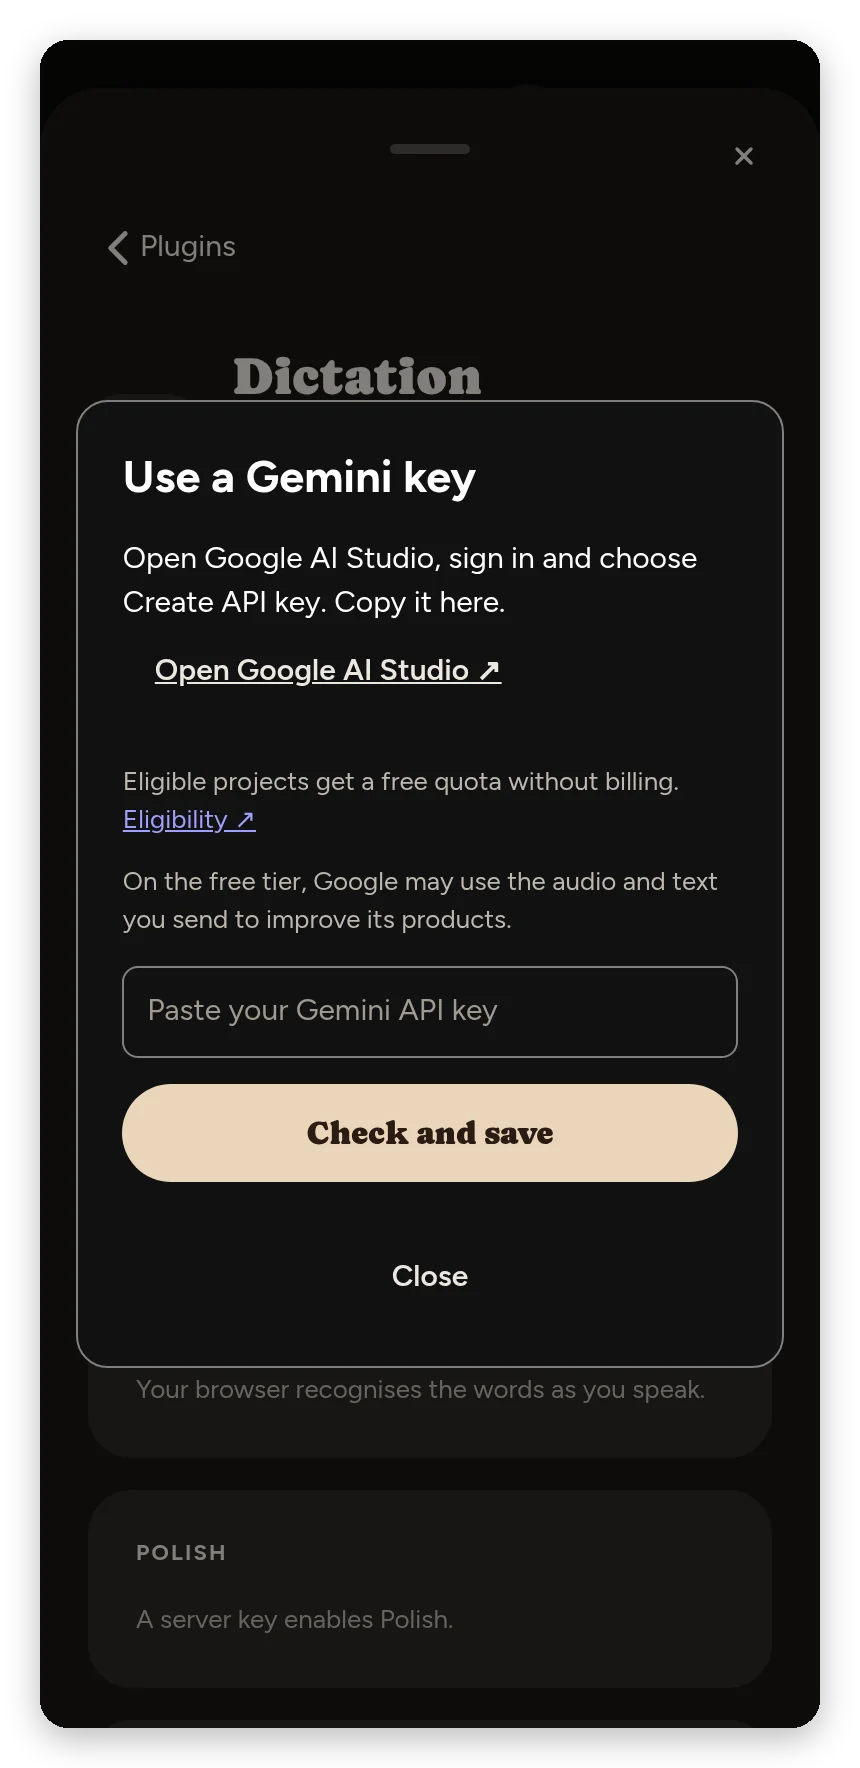
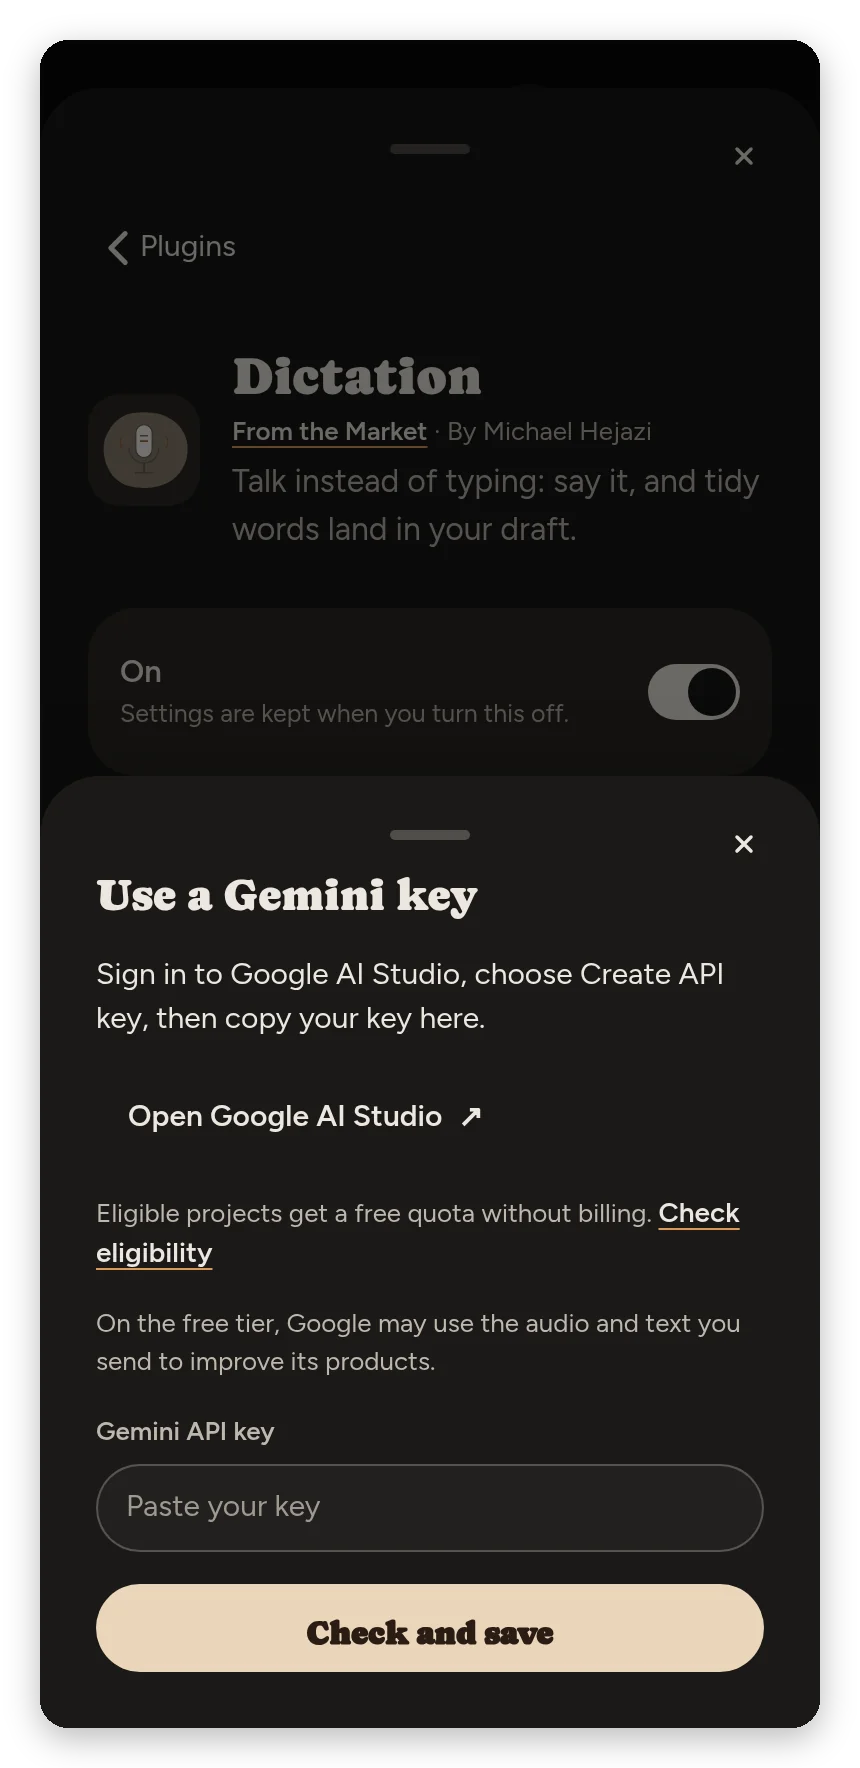
Use the shared key guide on browser fallback

diff --git a/page/guide.js b/page/guide.js
@@ -1,43 +1,67 @@
 const labels = { google: 'Using Google', openai: 'Using OpenAI', browser: 'Using this browser' }
 
 export function speechGuide(loam, plugin, benefit) {
-  const { h, host } = loam.ui
-  let dialog
-  loam.places.app.overlay.add({ id: plugin + '.key-guide', render: () => dialog ?? null })
-  loam.events.on('rendered', () => { if (dialog?.isConnected && !dialog.open) dialog.showModal() })
-  function close() { dialog?.close() }
+  const { h, host, icon, menuSurface } = loam.ui
+  let surface = null
+
+  loam.places.app.overlay.add({ id: plugin + '.key-guide', render: () => {
+    if (surface) surface.toggleAttribute('data-menu-centered', (globalThis.visualViewport?.width ?? globalThis.innerWidth) >= 700)
+    return surface
+  } })
+
+  function close() {
+    if (!surface) return
+    const field = surface.querySelector('input')
+    if (field) field.value = ''
+    surface = null
+    host.schedule()
+  }
+
   function open() {
-    if (dialog) return
-    const key = h('input', { type: 'password', required: true, autocomplete: 'off', spellcheck: false, placeholder: 'Paste your Gemini API key', 'aria-label': 'Gemini API key' })
-    const status = h('p', { class: 'note', role: 'status' })
-    const save = h('button', { type: 'submit', class: 'primary', text: 'Check and save' })
-    const form = h('form', { onsubmit: async event => {
+    if (surface) return
+    const input = h('input', { class: 'field-input', type: 'password', required: true, autocomplete: 'off', spellcheck: false, placeholder: 'Paste your key' })
+    const status = h('p', { class: 'note keys-check', role: 'status' })
+    const save = h('button', { type: 'submit', class: 'pillbtn primary', text: 'Check and save' })
+    const form = h('form', { class: 'keys-form speech-key-form', onsubmit: async event => {
       event.preventDefault()
       if (save.disabled) return
-      const value = key.value.trim()
-      if (!value) { key.focus(); return }
-      key.value = ''; save.disabled = true; status.textContent = 'Checking with Google…'
+      const value = input.value.trim()
+      if (!value) { input.focus(); return }
+      input.value = ''
+      save.disabled = true
+      status.textContent = 'Checking with Google…'
       try {
         const out = await host.api('PUT', '/keys/google', { values: { GEMINI_API_KEY: value } })
         if (!out.checked?.ok) throw new Error(out.checked?.why || 'Google could not verify the key.')
         loam.events.emit('speech.keys.changed', {})
-        key.hidden = save.hidden = true
-        status.textContent = 'Google accepted your key. It’s saved in Connections.'
-      } catch (error) { status.textContent = error.body?.error || error.message }
-      finally { save.disabled = false }
-    } }, h('h2', { text: 'Use a Gemini key' }),
-      h('p', { text: 'Open Google AI Studio, sign in and choose Create API key. Copy it here.' }),
-      h('a', { class: 'pillbtn content-mark', href: 'https://aistudio.google.com/apikey', target: '_blank', rel: 'noopener noreferrer', text: 'Open Google AI Studio ↗' }),
-      h('p', { class: 'note' }, 'Eligible projects get a free quota without billing. ', h('a', { href: 'https://aistudio.google.com/docs/terms#use-restrictions', target: '_blank', rel: 'noopener noreferrer', text: 'Eligibility ↗' })),
-      h('p', { class: 'note', text: 'On the free tier, Google may use the audio and text you send to improve its products.' }),
-      key, save, status, h('button', { type: 'button', class: 'pillbtn', text: 'Close', onclick: close }))
-    dialog = h('dialog', { key: plugin + '.key-guide', class: 'speech-key-guide', 'aria-label': 'Use a Gemini key' }, form)
-    const current = dialog
-    current.addEventListener('close', () => { key.value = ''; current.remove(); if (dialog === current) dialog = null; host.schedule() }, { once: true })
+        if (surface !== current) return
+        const done = h('button', { class: 'pillbtn primary', type: 'button', text: 'Done', onclick: close })
+        form.replaceChildren(h('div', { class: 'speech-key-success', role: 'status' },
+          h('span', { class: 'speech-key-check', 'aria-hidden': 'true' }, icon.check(22)),
+          h('h3', { class: 'display', text: 'Google is connected' }),
+          h('p', { class: 'note', text: 'Your shared key is saved in Connections. Both speech plugins can use it.' })), done)
+        done.focus({ preventScroll: true })
+      } catch (error) {
+        status.textContent = error.body?.error || error.message
+        save.disabled = false
+      }
+    } },
+    h('p', { text: 'Sign in to Google AI Studio, choose Create API key, then copy your key here.' }),
+    h('a', { class: 'pillbtn speech-studio', href: 'https://aistudio.google.com/apikey', target: '_blank', rel: 'noopener noreferrer' },
+      'Open Google AI Studio', h('span', { 'aria-hidden': 'true', text: '↗' })),
+    h('p', { class: 'note' }, 'Eligible projects get a free quota without billing. ',
+      h('a', { class: 'loginlink', href: 'https://aistudio.google.com/docs/terms#use-restrictions', target: '_blank', rel: 'noopener noreferrer', text: 'Check eligibility' })),
+    h('p', { class: 'note', text: 'On the free tier, Google may use the audio and text you send to improve its products.' }),
+    h('label', { class: 'keys-field' }, h('span', { class: 'keys-field-label', text: 'Gemini API key' }), input), status, save)
+    const current = menuSurface(h('section', { key: plugin + '.key-guide', class: 'speech-key-guide', 'aria-modal': 'true' }, form),
+      { title: 'Use a Gemini key', close, width: 424 })
+    surface = current
     host.schedule()
   }
-  const link = () => h('button', { class: 'speech-key-link', type: 'button', text: benefit, onclick: open })
-  const settings = provider => h('section', { class: 'rows speech-provider' },
-    h('strong', { role: 'status', text: labels[provider] ?? 'Checking speech provider…' }), link())
+
+  const link = () => h('button', { class: 'quietlink speech-key-link', type: 'button', text: benefit, onclick: open })
+  const settings = (provider, active = provider) => h('section', { class: 'rows speech-provider' },
+    h('strong', { class: 'setrow-title', role: 'status', text: labels[active] ?? 'Checking speech provider…' }),
+    provider === 'browser' ? link() : null)
   return { open, close, link, settings }
 }

diff --git a/page/style.css b/page/style.css
@@ -104,11 +104,16 @@
 @media (max-width:1099px) { .roundmic { min-width:44px; min-height:44px; } }
 @media (hover: hover) { .roundmic:not(.on):hover { background:var(--latte-hover); color:var(--latte-hover-ink); } }
 
-.speech-provider { display: grid; gap: .35rem; }
-.speech-key-link { display: block; width: fit-content; border: 0; background: transparent; color: var(--muted, currentColor); font: inherit; font-size: .82rem; padding: .25rem 0; text-align: left; text-decoration: underline; text-underline-offset: .2em; cursor: pointer; }
-.speech-key-guide { color: var(--ink, CanvasText); background: var(--paper, Canvas); border: 1px solid var(--line, GrayText); border-radius: 16px; width: min(25rem, 92vw); max-height: 90dvh; padding: 1.4rem; }
-.speech-key-guide::backdrop { background: rgb(0 0 0 / .45); }
-.speech-key-guide form { display: grid; gap: .8rem; }
-.speech-key-guide :is(h2,p) { margin: 0; }
-.speech-key-guide input { color: inherit; background: transparent; padding: .7rem; border: 1px solid var(--line, GrayText); border-radius: 8px; }
-.speech-key-guide [hidden] { display: none; }
+.speech-provider { padding: var(--space-lg) var(--space-xl); gap: var(--space-xs); }
+.speech-key-link { width: fit-content; text-align: start; }
+.speech-key-form { padding: 0 var(--space-xs) var(--space-xs); gap: var(--space-lg); }
+.speech-key-form p, .speech-key-success h3 { margin: 0; }
+.speech-key-form > p:first-child { font-size: 15px; line-height: 1.5; }
+.speech-key-form .speech-studio { display: inline-flex; align-self: flex-start; align-items: center; justify-content: center; gap: var(--space-sm); text-decoration: none; }
+.speech-key-form .keys-check:empty { display: none; }
+.speech-key-success { display: grid; justify-items: center; gap: var(--space-md); padding: var(--space-lg); text-align: center; }
+.speech-key-check { display: grid; place-items: center; width: 44px; height: 44px; border-radius: 50%; background: var(--latte-espresso); color: var(--latte-espresso-ink); }
+@media (prefers-reduced-motion: no-preference) {
+  .speech-key-check { animation: speechKeyConnected 280ms var(--ease-standard) both; }
+  @keyframes speechKeyConnected { from { transform: scale(.76); opacity: 0; } to { transform: scale(1); opacity: 1; } }
+}

diff --git a/page/engine.js b/page/engine.js
@@ -155,14 +155,14 @@ function startLive(target) {
     if (event.error !== 'aborted' && host.state.rec?.mode === 'live' && !host.state.rec.words) {
       host.state.rec = null
       say(event.error === 'not-allowed' ? 'This browser needs microphone permission to dictate.' :
-        'This browser could not recognise speech. Try again or use a server key.', { act: 'guide', label: 'Get a key' })
+        'This browser could not recognise speech. Try again.', host.provider?.() === 'browser' ? { act: 'guide', label: 'Get a key' } : null)
     }
   })
   host.captureStarted()
   audioSessionType('play-and-record')
   try { here.start() } catch {
     ended(); host.state.rec = null
-    say('This browser could not start recognition.', { act: 'guide', label: 'Get a key' })
+    say('This browser could not start recognition.', host.provider?.() === 'browser' ? { act: 'guide', label: 'Get a key' } : null)
     return
   }
   screen.hold()
@@ -1030,7 +1030,7 @@ function settingsDictation({ back = true } = {}) {
     )
 
   return [
-    host.guide?.settings(mode === 'browser' ? 'browser' : host.provider?.()),
+    host.guide?.settings(host.provider?.(), mode === 'browser' ? 'browser' : host.provider?.()),
     back ? host.settingsBack('Settings', 'root') : null,
     back ? host.settingsHead('Dictation', 'For this device.') : h('p', { class: 'note', text: 'Dictation preferences for this device.' }),
 

diff --git a/PLUGIN.md b/PLUGIN.md
@@ -1,7 +1,7 @@
 ---
 id: dictation
 name: Dictation
-version: 1.2.0
+version: 1.2.1
 author: Michael Hejazi
 api: 0
 kind: [extension]
@@ -42,7 +42,7 @@ Press the microphone in the composer or Files and speak. Press ✓ to keep the w
 
 ## What you need, and what leaves your server
 
-Loam uses a Google key first, then an OpenAI key, then the browser. A provider error stays with that provider. Open Settings › Plugins › Dictation to see the provider. Follow the free Gemini key link, sign in to Google AI Studio, create a key and paste it in the guide. Loam checks it and saves it in Settings › Connections › API keys for both plugins.
+Loam uses a Google key first, then an OpenAI key, then the browser. A provider error stays with that provider. Open Settings › Plugins › Dictation to see the provider. When the plugin is using this browser, follow the free Gemini key link, sign in to Google AI Studio, create a key and paste it in the guide. Loam checks it and saves it in Settings › Connections › API keys for both plugins.
 
 Eligible projects get a free quota without setting up billing. Google may use free-tier audio and text to improve its products. Check [availability](https://aistudio.google.com/docs/available-regions) and [your limits](https://aistudio.google.com/rate-limit).
 

diff --git a/README.md b/README.md
@@ -39,7 +39,7 @@ message or saving the file is still yours to do.
 
 Press the microphone in the composer or Files and speak. Press ✓ to keep the words. With no key, As you speak uses your browser’s recognition. Browser support varies. Record first and Polish use a server key.
 
-Open Settings › Plugins › Dictation to see the provider. Follow the free Gemini key link, sign in to Google AI Studio, create a key and paste it in the guide. Loam checks it and saves it in Settings › Connections › API keys for both plugins.
+Open Settings › Plugins › Dictation to see the provider. When the plugin is using this browser, follow the free Gemini key link, sign in to Google AI Studio, create a key and paste it in the guide. Loam checks it and saves it in Settings › Connections › API keys for both plugins.
 
 ## What you need, and what leaves your server
 
@@ -76,7 +76,7 @@ the plugin off and on again. The terms note is read fresh for every take.
 In Settings › Plugins, with its link:
 
 ```
-https://github.com/michaelhejazi/loam-dictation/tree/v1.2.0
+https://github.com/michaelhejazi/loam-dictation/tree/v1.2.1
 ```
 
 ### For builders
